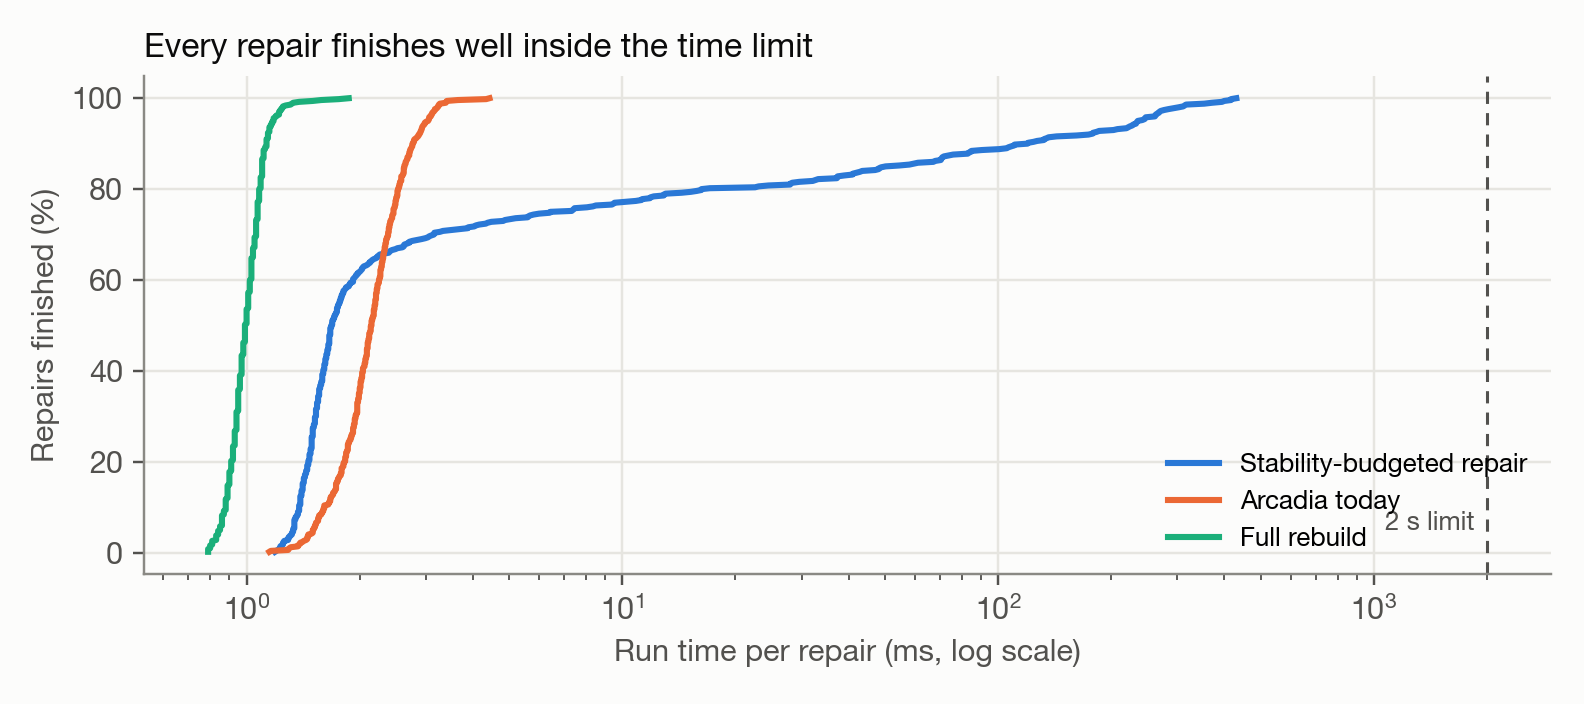
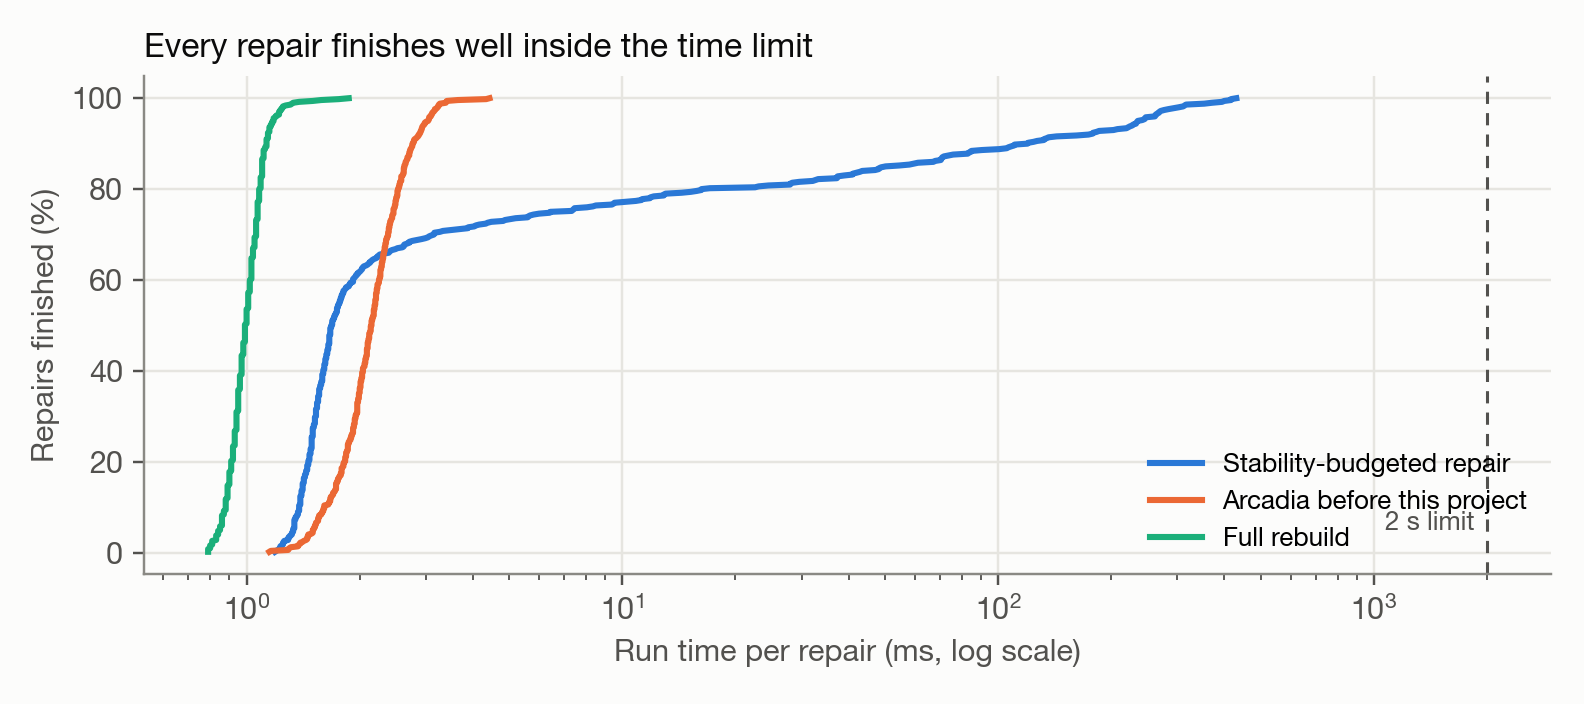
research: relabel M2 and the coverage bound in analysis outputs

Changed region(s): [[0.7734, 0.625, 0.959, 0.7812], [0.7115, 0.75, 0.7424, 0.7812], [0.7115, 0.6875, 0.7424, 0.7188]]

diff --git a/backend/research/analysis/analyse.py b/backend/research/analysis/analyse.py
@@ -38,7 +38,8 @@ N = len(seeds)
 NAMES = {
     "M0": "No repair",
     "M1": "Insert into gaps (EDF)",
-    "M2": "Arcadia today",
+    # Override for the post-fix robustness run: M2_NAME="Arcadia after the fixes"
+    "M2": __import__("os").environ.get("M2_NAME", "Arcadia before this project"),
     "M3": "Full rebuild",
     "M4": "Stability-budgeted repair",
 }
@@ -193,7 +194,7 @@ for m in [b for b in ["M0", "M1", "M2", "M3"] if b in by]:
     ax.annotate(tag, (x, y), textcoords="offset points", xytext=(dx, dy), fontsize=8.5, color=INK2,
                 ha="right" if dx < 0 else ("center" if dx == 0 else "left"))
 ax.axhline(out["coverage_bound_mean"], color=INK2, lw=1, ls=(0, (4, 3)), zorder=1)
-ax.annotate(f"Best possible coverage: {out['coverage_bound_mean']:.2f}%", (1.05, out["coverage_bound_mean"]), xytext=(0, 4),
+ax.annotate(f"Upper bound on coverage: {out['coverage_bound_mean']:.2f}%", (1.05, out["coverage_bound_mean"]), xytext=(0, 4),
             textcoords="offset points", fontsize=8.5, color=INK2)
 ax.set_xscale("log")
 ax.set_xlim(0.7, 130)
@@ -295,7 +296,7 @@ for m in [x for x in MAIN if x in by] + [x for x in by if x not in MAIN]:
     L.append(f"| {NAMES.get(m, m)} | {s['invalid_pct']:.1f}% | {s['coverage_mean']:.2f}% ({s['coverage_ci'][0]:.2f} to {s['coverage_ci'][1]:.2f}) | "
              f"{s['fully_prepared_pct']:.1f}% | {s['unchanged_mean']:.1f}% ({s['unchanged_ci'][0]:.1f} to {s['unchanged_ci'][1]:.1f}) | "
              f"{s['cost_mean']:.2f} ({s['cost_median']:.2f}) | {s['runtime_p95_ms']:.0f} / {s['runtime_max_ms']:.0f} ms |")
-L += ["", f"Best possible coverage (exact bound): {out['coverage_bound_mean']:.2f}%. Valid plans above it: {out['valid_plans_above_bound']}. "
+L += ["", f"Upper bound on coverage: {out['coverage_bound_mean']:.2f}%. Valid plans above it: {out['valid_plans_above_bound']}. "
       f"Certificate beaten: {out['certificate_beaten']}. Scenarios proven short of time: {out['proven_short_scenarios']}.", ""]
 L += ["## M4 against each baseline (paired Wilcoxon, Holm-corrected)", "",
       "| Against | Measure | Mean difference (95% CI) | M4 better / worse | p (Holm) | Rank-biserial r |", "|---|---|---|---|---|---|"]

diff --git a/backend/research/results/2026-10-05-confirmatory-final/analysis/summary.md b/backend/research/results/2026-10-05-confirmatory-final/analysis/summary.md
@@ -4,7 +4,7 @@
 |---|---|---|---|---|---|---|
 | No repair | 0.0% | 93.78% (93.51 to 94.05) | 89.6% | 97.6% (97.5 to 97.8) | 2.66 (0.00) | 1 / 8 ms |
 | Insert into gaps (EDF) | 0.0% | 97.52% (97.38 to 97.66) | 95.6% | 97.6% (97.4 to 97.8) | 2.46 (0.26) | 2 / 7 ms |
-| Arcadia today | 16.4% | 99.10% (99.01 to 99.18) | 97.8% | 68.8% (68.0 to 69.5) | 11.23 (6.82) | 3 / 9 ms |
+| Arcadia before this project | 16.4% | 99.10% (99.01 to 99.18) | 97.8% | 68.8% (68.0 to 69.5) | 11.23 (6.82) | 3 / 9 ms |
 | Full rebuild | 0.0% | 99.49% (99.42 to 99.56) | 98.9% | 2.0% (1.9 to 2.1) | 25.61 (23.19) | 1 / 13 ms |
 | Stability-budgeted repair | 0.0% | 99.49% (99.42 to 99.56) | 98.8% | 92.9% (92.5 to 93.2) | 4.59 (1.22) | 235 / 579 ms |
 | M4-b0.5 | 0.0% | 94.72% (94.46 to 94.97) | 91.4% | 97.5% (97.4 to 97.7) | 2.39 (0.00) | 164 / 622 ms |
@@ -17,7 +17,7 @@
 | M4-fixedWindow | 0.0% | 99.49% (99.42 to 99.56) | 98.9% | 86.9% (86.5 to 87.4) | 8.17 (3.07) | 39 / 676 ms |
 | M4-noEscalate | 0.0% | 99.13% (99.05 to 99.21) | 97.9% | 95.7% (95.5 to 95.8) | 3.18 (1.00) | 232 / 607 ms |
 
-Best possible coverage (exact bound): 99.65%. Valid plans above it: 0. Certificate beaten: 0. Scenarios proven short of time: 370.
+Upper bound on coverage: 99.65%. Valid plans above it: 0. Certificate beaten: 0. Scenarios proven short of time: 370.
 
 ## M4 against each baseline (paired Wilcoxon, Holm-corrected)
 
@@ -29,9 +29,9 @@ Best possible coverage (exact bound): 99.65%. Valid plans above it: 0. Certifica
 | Insert into gaps (EDF) | coverage | +1.97 pts (+1.86 to +2.09) | 1808 / 8 | 1.6e-296 | +1.00 |
 | Insert into gaps (EDF) | unchanged | -4.75 pts (-5.04 to -4.47) | 0 / 1814 | 4.7e-297 | -1.00 |
 | Insert into gaps (EDF) | disruption cost | +2.13 (+1.98 to +2.29) | 807 / 1697 | 8.4e-178 | +0.66 |
-| Arcadia today | coverage | +0.39 pts (+0.36 to +0.43) | 767 / 75 | 9.7e-122 | +0.94 |
-| Arcadia today | unchanged | +24.06 pts (+23.44 to +24.68) | 3924 / 138 | 0.0e+00 | +0.98 |
-| Arcadia today | disruption cost | -6.64 (-6.87 to -6.40) | 3910 / 341 | 0.0e+00 | -0.90 |
+| Arcadia before this project | coverage | +0.39 pts (+0.36 to +0.43) | 767 / 75 | 9.7e-122 | +0.94 |
+| Arcadia before this project | unchanged | +24.06 pts (+23.44 to +24.68) | 3924 / 138 | 0.0e+00 | +0.98 |
+| Arcadia before this project | disruption cost | -6.64 (-6.87 to -6.40) | 3910 / 341 | 0.0e+00 | -0.90 |
 | Full rebuild | coverage | +0.00 pts (-0.01 to +0.01) | 188 / 201 | 4.9e-01 | +0.04 |
 | Full rebuild | unchanged | +90.86 pts (+90.52 to +91.20) | 5000 / 0 | 0.0e+00 | +1.00 |
 | Full rebuild | disruption cost | -21.02 (-21.30 to -20.75) | 5000 / 0 | 0.0e+00 | -1.00 |

diff --git a/backend/research/results/2026-10-05-heldout/analysis/summary.md b/backend/research/results/2026-10-05-heldout/analysis/summary.md
@@ -4,7 +4,7 @@
 |---|---|---|---|---|---|---|
 | No repair | 0.0% | 94.42% (93.58 to 95.19) | 89.4% | 97.3% (96.7 to 97.8) | 3.13 (0.00) | 1 / 1 ms |
 | Insert into gaps (EDF) | 0.0% | 97.76% (97.39 to 98.11) | 95.4% | 97.3% (96.7 to 97.8) | 2.74 (0.19) | 2 / 3 ms |
-| Arcadia today | 18.8% | 99.17% (98.88 to 99.43) | 98.0% | 68.5% (66.1 to 70.8) | 11.59 (6.89) | 3 / 4 ms |
+| Arcadia before this project | 18.8% | 99.17% (98.88 to 99.43) | 98.0% | 68.5% (66.1 to 70.8) | 11.59 (6.89) | 3 / 4 ms |
 | Full rebuild | 0.0% | 99.45% (99.20 to 99.66) | 98.8% | 2.0% (1.8 to 2.2) | 26.26 (23.95) | 1 / 2 ms |
 | Stability-budgeted repair | 0.0% | 99.45% (99.22 to 99.65) | 98.7% | 92.5% (91.4 to 93.5) | 4.79 (1.52) | 236 / 430 ms |
 | M4-b0.5 | 0.0% | 95.24% (94.46 to 95.97) | 91.1% | 97.2% (96.5 to 97.7) | 2.84 (0.00) | 179 / 422 ms |
@@ -17,7 +17,7 @@
 | M4-fixedWindow | 0.0% | 99.45% (99.22 to 99.66) | 98.7% | 85.8% (84.4 to 87.3) | 8.67 (3.61) | 36 / 465 ms |
 | M4-noEscalate | 0.0% | 99.10% (98.83 to 99.34) | 97.8% | 95.4% (94.7 to 96.0) | 3.36 (1.09) | 235 / 494 ms |
 
-Best possible coverage (exact bound): 99.64%. Valid plans above it: 0. Certificate beaten: 0. Scenarios proven short of time: 33.
+Upper bound on coverage: 99.64%. Valid plans above it: 0. Certificate beaten: 0. Scenarios proven short of time: 33.
 
 ## M4 against each baseline (paired Wilcoxon, Holm-corrected)
 
@@ -29,9 +29,9 @@ Best possible coverage (exact bound): 99.64%. Valid plans above it: 0. Certifica
 | Insert into gaps (EDF) | coverage | +1.69 pts (+1.42 to +1.99) | 191 / 2 | 2.8e-32 | +0.99 |
 | Insert into gaps (EDF) | unchanged | -4.78 pts (-5.69 to -3.94) | 0 / 193 | 1.4e-32 | -1.00 |
 | Insert into gaps (EDF) | disruption cost | +2.05 (+1.58 to +2.57) | 84 / 174 | 1.3e-17 | +0.62 |
-| Arcadia today | coverage | +0.27 pts (+0.18 to +0.38) | 66 / 12 | 1.5e-09 | +0.81 |
-| Arcadia today | unchanged | +24.03 pts (+22.04 to +25.99) | 387 / 25 | 1.8e-62 | +0.96 |
-| Arcadia today | disruption cost | -6.80 (-7.59 to -6.01) | 381 / 50 | 3.0e-53 | -0.86 |
+| Arcadia before this project | coverage | +0.27 pts (+0.18 to +0.38) | 66 / 12 | 1.5e-09 | +0.81 |
+| Arcadia before this project | unchanged | +24.03 pts (+22.04 to +25.99) | 387 / 25 | 1.8e-62 | +0.96 |
+| Arcadia before this project | disruption cost | -6.80 (-7.59 to -6.01) | 381 / 50 | 3.0e-53 | -0.86 |
 | Full rebuild | coverage | +0.00 pts (-0.02 to +0.03) | 18 / 18 | 7.2e-01 | +0.07 |
 | Full rebuild | unchanged | +90.50 pts (+89.37 to +91.60) | 500 / 0 | 5.8e-83 | +1.00 |
 | Full rebuild | disruption cost | -21.47 (-22.38 to -20.59) | 500 / 0 | 1.4e-82 | -1.00 |
